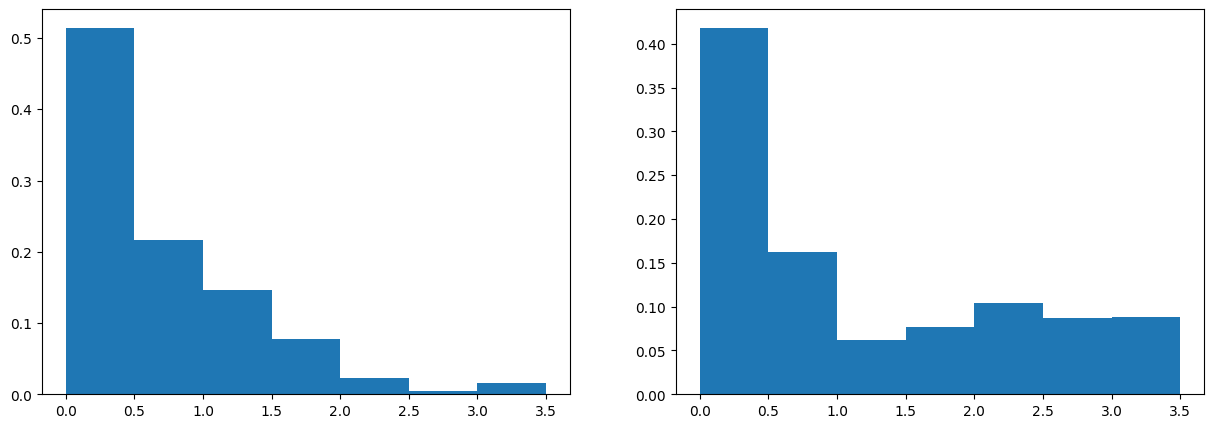
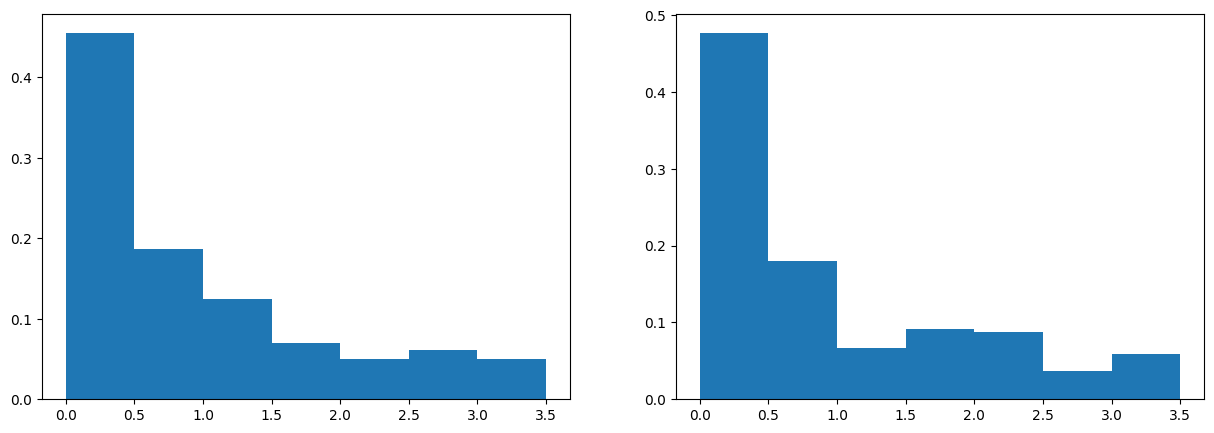
Tweaking PPO

diff --git a/src/rl_pipeline/agents.py b/src/rl_pipeline/agents.py
@@ -5,8 +5,7 @@ import torch.optim as optim
 from torch.distributions.categorical import Categorical
 from torch.nn import functional as F
 import wandb
-#from supersuit import color_reduction_v0, frame_stack_v1, resize_v1
-
+from rl_utils import PolicyNetwork
 
 device = torch.device("cuda" if torch.cuda.is_available() else "cpu")
 
@@ -39,18 +38,19 @@ class LOLA(nn.Module):
         self.agent_id = agent_id
         self.num_actions = num_actions
         self.learning_rate = learning_rate
-        self.Q = nn.Parameter(torch.zeros((num_actions, num_actions)), requires_grad=True) # Q-values for joint actions
-        self.softmax = nn.Softmax(dim=1)
+        self.Q = torch.zeros((num_actions, num_actions), requires_grad=True) # Q-values for joint actions
         self.weights = (torch.ones(num_actions, num_actions, device=device) / num_actions).squeeze() # Stochastic policy
     
     def select_action(self, opponent_action):
         if opponent_action == None:
             opponent_action = 0
         # Convert Q-values to probabilities using softmax
-        probs = self.softmax(self.Q[:, opponent_action])
+        #probs = self.softmax(self.Q[:, opponent_action])
+        policy = self.weights.unsqueeze(0)
         # Sample action from the probability distribution
         wandb.log({'{0} weights'.format(self.agent_id): self.weights})
-        return torch.multinomial(probs, 1, replacement=True).item() # torch.multinomial(self.weights[:, opponent_action].squeeze(), num_samples=1, replacement=True).item()
+
+        return torch.multinomial(policy[:, :, opponent_action], 1).item() # Without replacement
 
     def update_weights(self, own_action, opponent_action, own_reward, opponent_reward):
         # Update weights using policy gradient
@@ -58,47 +58,76 @@ class LOLA(nn.Module):
         gradient[own_action, opponent_action] = 1
 
         # Update Q-values using gradient descent
-        self.Q += self.learning_rate * (own_reward + opponent_reward - self.Q[own_action, opponent_action]) * gradient
-        # Update policy using softmax function
-        self.weights = torch.softmax(self.Q, dim=0)
+        q_values = self.Q[own_action, opponent_action]
+        loss = -(own_reward + opponent_reward - q_values)
+        loss.backward()
+        
+        with torch.no_grad():
+            # Update Q-values
+            self.Q.data -= self.learning_rate * self.Q.grad
+            # Reset gradients
+            self.Q.grad.zero_()
+            # Update policy using softmax function
+            self.weights = F.softmax(self.Q, dim=0)
 
         return None
 
 
-class PPO(nn.Module):
-    def __init__(self, num_actions):
-        super().__init__()
+class PPO:
+    def __init__(self, num_actions, agent_id, learning_rate, exploration, 
+                 gamma=0.99, clip_ratio=0.2, value_coef=0.5, entropy_coef=0.01): # Exploration not used
+        self.policy_net = PolicyNetwork(num_actions).to(device)
+        self.optimizer = optim.Adam(self.policy_net.parameters(), lr=learning_rate)
+        self.num_actions = num_actions
+        self.gamma = gamma
+        self.clip_ratio = clip_ratio
+        self.value_coef = value_coef
+        self.entropy_coef = entropy_coef
+        self.agent_id = agent_id
 
-        self.network = nn.Sequential(
-            self._layer_init(nn.Conv2d(4, 32, 3, padding=1)),
-            nn.MaxPool2d(2),
-            nn.ReLU(),
-            self._layer_init(nn.Conv2d(32, 64, 3, padding=1)),
-            nn.MaxPool2d(2),
-            nn.ReLU(),
-            self._layer_init(nn.Conv2d(64, 128, 3, padding=1)),
-            nn.MaxPool2d(2),
-            nn.ReLU(),
-            nn.Flatten(),
-            self._layer_init(nn.Linear(128 * 8 * 8, 512)),
-            nn.ReLU(),
-        )
-        self.actor = self._layer_init(nn.Linear(512, num_actions), std=0.01)
-        self.critic = self._layer_init(nn.Linear(512, 1))
+    def select_action(self, state):
+        state_tensor = torch.FloatTensor(state).unsqueeze(0).to(device)
+        with torch.no_grad():
+            logits = self.policy_net(state_tensor)
+            dist = torch.distributions.Categorical(logits=logits)
+            action = dist.sample()
+        return dist, action.item()
 
-    def _layer_init(self, layer, std=np.sqrt(2), bias_const=0.0):
-        torch.nn.init.orthogonal_(layer.weight, std)
-        torch.nn.init.constant_(layer.bias, bias_const)
-        return layer
+    def update(self, rollout):
+        states, actions, old_log_probs, rewards, next_states, dones = rollout
+        returns = self._compute_returns(rewards)
+        #returns = torch.FloatTensor(returns)
+        #old_log_probs = torch.stack(old_log_probs)
+        
+        for _ in range(10):  # PPO epoch
+            logits = self.policy_net(states)
+            
+            dist = torch.distributions.Categorical(logits=logits)
+            log_probs = dist.log_prob(actions)
+            wandb.log({'{0} weights'.format(self.agent_id): log_probs})
+            entropy = dist.entropy().mean()
 
-    def get_value(self, x):
-        return self.critic(self.network(x / 255.0))
+            ratio = torch.exp(log_probs - old_log_probs)
+            surr1 = ratio * returns
+            surr2 = torch.clamp(ratio, 1 - self.clip_ratio, 1 + self.clip_ratio) * returns
+            actor_loss = -torch.min(surr1, surr2).mean()
+            
+            values = self.policy_net(states) #.gather(1, actions.unsqueeze(1)).squeeze(1)
+            value_loss = nn.MSELoss()(values, returns)
 
-    def get_action_and_value(self, x, action=None):
-        hidden = self.network(x / 255.0)
-        logits = self.actor(hidden)
-        probs = Categorical(logits=logits)
-        if action is None:
-            action = probs.sample()
-        return action, probs.log_prob(action), probs.entropy(), self.critic(hidden)
+            loss = actor_loss + self.value_coef * value_loss - self.entropy_coef * entropy
+            import pdb; pdb.set_trace()
+            self.optimizer.zero_grad()
+            loss.backward()
+            self.optimizer.step()
+
+    def _compute_returns(self, rewards):
+        returns = []
+        R = 0
+        #for r in reversed(rewards):
+        R = rewards + self.gamma * R
+        returns.insert(0, R)
+        returns = np.array(returns)
+        returns = (returns - returns.mean()) / (returns.std() + 1e-5)  # normalize returns
+        return torch.tensor(rewards, device=device)
     

diff --git a/src/rl_pipeline/ska_env.py b/src/rl_pipeline/ska_env.py
@@ -5,8 +5,6 @@ from ska_ost_array_config.array_config import LowSubArray, MidSubArray
 import wandb
 import torch
 import numpy as np
-from scipy.special import kl_div
-from math import dist
 import matplotlib.pyplot as plt
 from rl_utils import *
 from astro_utils import*
@@ -87,8 +85,8 @@ class InterferometerEnv(AECEnv):
     
     def calculate_rewards(self):
         for n in range(self.num_agents): # Update rewards
-            array_sensitivity = sensitivity(len(np.where(self.alloc == n)[0]))
-            array_resolution = resolution(1, baseline_dists(self.coordinates[np.where(self.alloc == n)]))
+            #array_sensitivity = sensitivity(len(np.where(self.alloc == n)[0]))
+            #array_resolution = resolution(1, baseline_dists(self.coordinates[np.where(self.alloc == n)]))
             #similarity = MSE(avg_hist, self.hists[n]) if not \
             #           np.isnan(MSE(avg_hist, self.hists[n])) else -10 # Similarity to an average
             jensen_shannon = compute_jensen(self.hists[0], self.hists[1]) # Symmetric
@@ -97,7 +95,7 @@ class InterferometerEnv(AECEnv):
             
             #similarity # - #np.ma.masked_invalid(kl).sum()
         wandb.log({"J-S Divergence": jensen_shannon})
-        return array_sensitivity, array_resolution
+        return #array_sensitivity, array_resolution
 
     def close(self):
         pass
@@ -107,14 +105,14 @@ class InterferometerEnv(AECEnv):
         Reset needs to initialize the attributes
         """
         self.agents = self.possible_agents[:]
-        self.rewards = {agent: -10 for agent in self.agents}
+        self.rewards = {agent: 0 for agent in self.agents}
         self._cumulative_rewards = {agent: 0 for agent in self.agents}
         self.terminations = {agent: False for agent in self.agents}
         self.truncations = {agent: False for agent in self.agents}
         self.infos = {agent: {} for agent in self.agents}
-        self.state = {agent: None for agent in self.agents}
-        self.observations = {agent: None for agent in self.agents}
-        self.alloc = self._observation_spaces['player_0'].sample()
+        self.state = {agent: torch.tensor(self._observation_spaces['player_0'].sample(), device=device) for agent in self.agents}
+        self.observations = {agent: self._observation_spaces[agent].sample() for agent in self.agents}
+        self.alloc = torch.tensor(self._observation_spaces['player_0'].sample(), device=device)
         # Cyclic stepping through the agents list.
         self._agent_selector = agent_selector(self.agents)
         self.agent_selection = self._agent_selector.next()
@@ -132,26 +130,17 @@ class InterferometerEnv(AECEnv):
             return
 
         agent = self.agent_selection
-        # stores action of current agent
-        self.state[self.agent_selection] = action
+        # Label each node for which agent it is allocated to
         self.alloc[action] = self.agent_name_mapping[agent]
-
-        self.hists = [np.histogram(baseline_dists(self.coordinates[np.where(self.alloc == i)]),
+        self.state[self.agent_selection] = self.alloc
+        self.hists = [np.histogram(baseline_dists(self.coordinates[torch.where(self.alloc == i)[0].tolist()]),
                                     bins=np.array([n/2 for n in range(8)]), #bins=8,# min=0, max=4,
                                     #weights=weighting_fn(baseline_dists(self.coordinates[np.where(self.alloc == i)])), 
-                                    density=True
-                                )[0] for i in range(self.num_agents)]
+                                    density=True)[0] for i in range(self.num_agents)]
 
         self.hists = [self.hists[i] / np.sum(self.hists[i]) for i in range(len(self.hists))] # Normalise histograms
 
-
-        #jensen_shannon = compute_jensen(self.hists[0], self.hists[1])
-        #wandb.log({"J-S Divergence": jensen_shannon})
-
-        sensitivity, resolution = self.calculate_rewards() # Updates self.rewards
-        #print(sensitivity, resolution)
-        #wandb.log({"Sensitivity": sensitivity, "Resolution": resolution})
-
+        self.calculate_rewards() # Updates self.rewards
         wandb.log(self.rewards)
 
         # observe the current state
@@ -174,9 +163,6 @@ class InterferometerEnv(AECEnv):
         color = iter(plt.cm.rainbow(np.linspace(0, 1, self.num_agents)))
         for i in range(self.num_agents):
             colours.append(next(color))
-
-        #if self.render_mode == "human":
-         #   return self._render_frame(colours)
             
         for i in range(self.num_agents):
             for n in range(self.num_nodes):
@@ -210,10 +196,6 @@ class InterferometerEnv(AECEnv):
                                         align='center', width=0.5)
                     except IndexError:
                         pass
-
-                #for j in range(int((self.num_agents+1)/2), self.num_agents):
-                 #   for i in range(int((self.num_agents+1)/2)):
-    
 
             fig.savefig(r'/share/nas2/lislaam/masters_project/src/rl_pipeline/SKA_histograms.png', bbox_inches='tight')
             wandb.log({"Histograms": wandb.Image(fig)})

diff --git a/src/rl_pipeline/train_agents.py b/src/rl_pipeline/train_agents.py
@@ -39,7 +39,6 @@ def train_LOLA(env, agents, num_episodes, episode_length, agent_ids):
             actions = [] # Track actions for each player so LOLA can update
             for i in range(num_agents):
                 action = agents[i].select_action(states[agent_ids[i]])
-                #print(action)
                 next_state, reward, done[i], _ = env.step(action)
                 actions.append(action)
 
@@ -50,3 +49,31 @@ def train_LOLA(env, agents, num_episodes, episode_length, agent_ids):
 
         wandb.log({'{0} Episode Reward'.format(agent_ids[i]): total_rewards[i] for i in range(num_agents)})
         print(f"Episode {episode+1}/{num_episodes}, Total Rewards: {total_rewards}")
+
+
+def train_PPO(env, agents, num_episodes, episode_length, agent_ids):
+    num_agents = len(agents)
+    
+    for episode in range(num_episodes):
+        states, info = env.reset() # states is a dict
+        done = False
+        episode_rewards = [0] * num_agents
+        while not done:
+            next_states = []
+            for i, agent in enumerate(agents):
+                dist, action = agent.select_action(states[agent_ids[i]])
+                next_state, rewards, done, _ = env.step(action)
+                action = torch.tensor(action, device=device)
+                print(next_state)
+                episode_rewards += rewards
+                next_states.append(next_state)
+
+                #import pdb; pdb.set_trace()
+                agent.update((states[agent_ids[i]], action, 
+                              dist.log_prob(action),
+                               rewards[agent_ids[i]], None, done))
+            states = next_states
+        env.close
+
+        wandb.log({'{0} Episode Reward'.format(agent_ids[i]): episode_rewards[i] for i in range(num_agents)})
+        print(f"Episode {episode}: Total rewards: {episode_rewards}")

diff --git a/src/rl_pipeline/run_experiment.py b/src/rl_pipeline/run_experiment.py
@@ -8,6 +8,11 @@ from train_agents import *
 
 device = torch.device("cuda" if torch.cuda.is_available() else "cpu")
 
+REGIMES = {'Random': [SGD, train_SGD, 1],
+           'SGD': [SGD, train_SGD, 0.1],
+           'LOLA': [LOLA, train_LOLA, None],
+           'PPO': [PPO, train_PPO, None]}
+
 @hydra.main(version_base='1.3', config_path="config/",
              config_name="cfg.yaml")
 def main(cfg):
@@ -15,23 +20,16 @@ def main(cfg):
     num_agents = cfg.num_agents
     num_episodes = cfg.episodes
     episode_length = cfg.episode_length
-    agent = SGD
-    train = train_SGD
+    try:
+        agent, train, exploration = REGIMES[cfg.agent_type]
+    except IndexError:
+        print("Agent type not valid. Choose from 'Random','SGD','LOLA','PPO'")
 
     env = InterferometerEnv(cfg.target_sensitivity, cfg.target_resolution,
                              num_agents=num_agents)
 
-    #run = wandb.init(
-    # # Set the project where this run will be logged
-    # project="ska_RL",
-    # # Track hyperparameters and run metadata
-    # config={
-    #     "num_agents": num_agents,
-    #     "episodes": num_episodes,
-    # },
-    # )
     agents = [agent(num_actions=env.num_nodes, learning_rate=cfg.learning_rate,
-                        agent_id=env.possible_agents[i], exploration=1) for i in range(num_agents)]
+                        agent_id=env.possible_agents[i], exploration=exploration) for i in range(num_agents)]
     train(env, agents, num_episodes=num_episodes, episode_length=episode_length,
                       agent_ids=env.possible_agents)
 

diff --git a/src/rl_pipeline/rl_utils.py b/src/rl_pipeline/rl_utils.py
@@ -1,11 +1,27 @@
 import numpy as np
 import math
 import torch
+import torch.nn as nn
 import wandb
 import omegaconf
 from scipy.spatial.distance import jensenshannon
 
 device = torch.device("cuda" if torch.cuda.is_available() else "cpu")
+
+class PolicyNetwork(nn.Module):
+    def __init__(self, num_actions):
+        super(PolicyNetwork, self).__init__()
+        self.relu = nn.ReLU()
+        self.fc = nn.Linear(num_actions, 64)
+        self.fc_pi = nn.Linear(64, num_actions)
+
+    def forward(self, x):
+        x = x.to(torch.float32)
+        x = self.relu(self.fc(x))
+        #import pdb; pdb.set_trace()
+        logits = self.fc_pi(x)
+        return logits
+
 
 def batchify_obs(obs, device):
     """Converts PZ style observations to batch of torch arrays."""
@@ -42,7 +58,6 @@ def compute_jensen(hist_1, hist_2):
     hist_1 = hist_1 / np.sum(hist_1)
     hist_2 = hist_2 / np.sum(hist_2)
     return jensenshannon(hist_1, hist_2)
-
 
 # The reward of players 1 or 2 (2 player case for now)
 def _grad_reward(reward_func): return torch.autograd.grad(reward_func)
